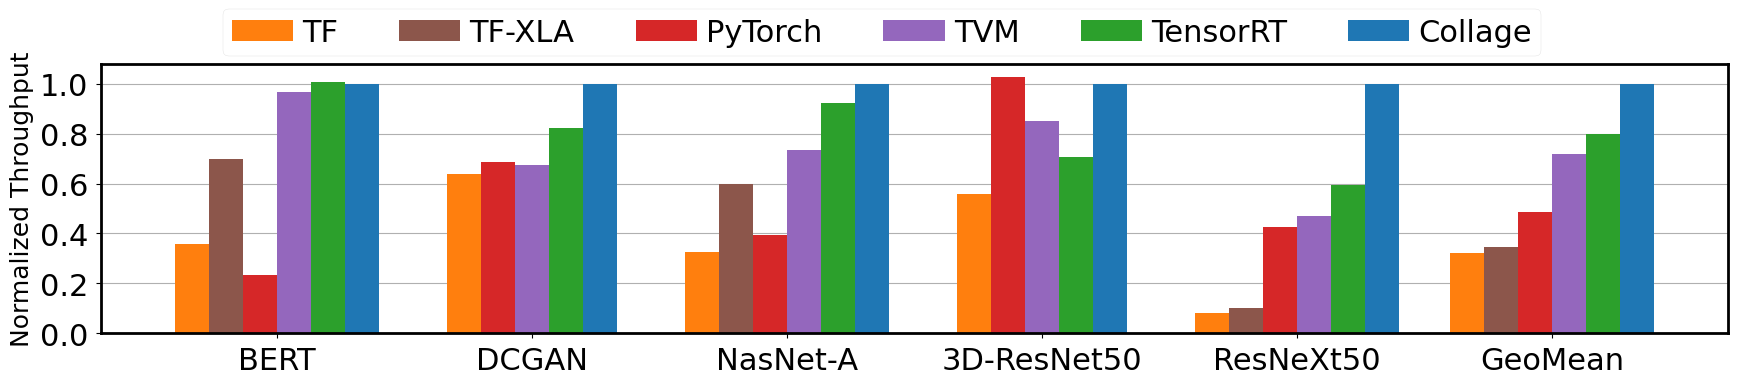
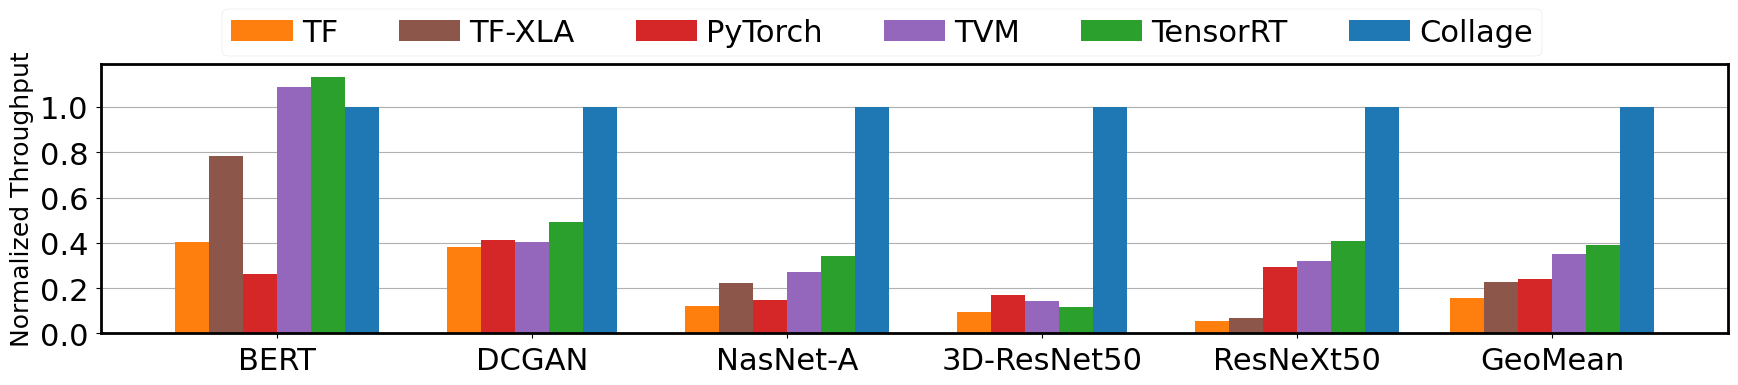
[Artifact eval] From two-level perf logging to plotting with newly measured numbers

diff --git a/demo/artifact_eval.py b/demo/artifact_eval.py
@@ -5,6 +5,10 @@ import tvm
 import logging
 from tvm.contrib import graph_executor as runtime
 
+# Remove warnings for clean output
+import warnings
+warnings.filterwarnings('ignore')
+
 # [NOTE]
 # * Available networks: bert_full, dcgan, nasneta, resnet50_3d, resnext50_32x4d, yolov3, mobilenet_v2
 # * Collage supports following backends by default:
@@ -16,11 +20,13 @@ from tvm.contrib import graph_executor as runtime
 
 # Define Collage workload
 workload = {
-    "optimizer": "op-level",
+#    "optimizer": "op-level",
+    "optimizer": "two-level",
     "backends": ["autotvm", "cudnn", "cublas", "tensorrt"],
     "network_name": "resnext50_32x4d",
     "target": "cuda",
     "batch_size": 1,
+    "ev-budget": 0.5,
 }
 
 # Default logging level. Skip messages during optimization
@@ -44,12 +50,6 @@ def measure_perf(lib, workload):
     perfs = np.array(ftimer().results) * 1000
     return np.mean(perfs), np.std(perfs)
 
-def run_with_tensorrt(workload):
-    from collage.backend.default_backends import cg_TensorRT
-    lib = cg_TensorRT(workload["mod"], workload["target"], workload["params"])
-    return measure_perf(lib, workload)
-
-
 def setup_workload(workload):
     network_name, batch_size, target = \
           workload["network_name"], workload["batch_size"], workload["target"]
@@ -62,32 +62,42 @@ def setup_workload(workload):
 
 def run_workload(workload, collage_mod):
     setup_workload(workload)
-    # Measure TensorRT performance as baseline
-    trt_mean_perf, trt_std_perf = run_with_tensorrt(workload)
 
-   # Invoke collage optimizer
+    # Invoke collage optimizer
     lib = collage_mod.optimize_backend_placement(**workload)
-    collage_mean_perf, collage_std_perf = measure_perf(lib, workload)
+
+    # For two-level optimizer, we have the measurement logged for the best placement during the optimization
+    if workload["optimizer"] == "two-level":
+        with open('plots/e2e_perf_two_level.log') as f:
+            lines = f.readlines()[-1] # Consider only last line correspoding to the most recent eval
+            lines = lines.split(",")
+            collage_mean_perf, collage_std_perf = float(lines[0]), float(lines[1]) # The last one is the most recently measured one
+    else:
+        collage_mean_perf, collage_std_perf = measure_perf(lib, workload)
 
     print(f"[ End-to-End Performance Evaluation ]")
-    print(f"# Performance of Collage is compared against TensorRT")
-    print(f"  speedup = (performance of TensorRT)/(performance of Collage)")
-    print(f"\n")
     print(f"# Network: {workload['network_name']}, Collage optimizer: {workload['optimizer']}")
-    print(f"  * End-to-end performance")
-    print(f"    - Run with TensorRT (mean, std) = ({trt_mean_perf:.4f}+-{trt_std_perf:.4f})")
-    print(f"    - Run with Collage  (mean, std) = ({collage_mean_perf:.4f}+-{collage_std_perf:.4f}), Speedup: {trt_mean_perf/collage_mean_perf:.4f}x")
+    print(f"  * Collage Performance (ms) (mean, std) = ({collage_mean_perf:.4f}+-{collage_std_perf:.4f})")
+
+def setup_two_level_log():
+    # Delete outdated log file for e2e perf of two-level optimizer
+    if workload["optimizer"] == "two-level":
+        import os
+        two_level_log_path = "plots/e2e_perf_two_level.log"
+        if os.path.exists(two_level_log_path):
+            os.remove(two_level_log_path)
 
 if __name__ == "__main__":
     # Operator cost will be logged at "operator_cost.log" by default.
     # If you want to start from scratch, delete previous log file for operator cost.
     # Since it is unreadable, users can dump human-readable form by passing 'dump_readable_cost_log = True'
     collage_mod = collage.Module(op_cost_log_path = "operator_cost.log", dump_readable_cost_log = False)
-    print(f"Default backends: {collage_mod.get_registered_backends()}\n")
+    print(f"Default Collage backends: {collage_mod.get_registered_backends()}\n")
 
     # Override the default tuning log
     # If you don't have tuning log, generate one by running 'autotune_tvm_ops.py'
     collage_mod.update_backend_tuning_log("autotvm", "autotvm_tuning_log_rtx2070.json")
+    setup_two_level_log()
 
     networks = ['bert_full', 'dcgan', 'nasneta', 'resnet50_3d', 'resnext50_32x4d']
     for nn in networks:

diff --git a/demo/plots/plot_e2e_perf.py b/demo/plots/plot_e2e_perf.py
@@ -5,6 +5,10 @@ from scipy import stats
 import argparse
 import numpy as np
 
+# Avoid display of figure
+import matplotlib
+matplotlib.use('Agg')
+
 NET_NAME_TO_OFFICIAL = {'bert_full': 'BERT', 'nasneta':"NasNet-A", 'resnet50': 'ResNet50',
                       'resnext50_32x4d':"ResNeXt50", 'resnet50_3d':"3D-ResNet50",
                       'mobilenet_v2':"Mobilenet V2", 'nasrnn':"NasRNN", 'dcgan':'DCGAN'}
@@ -50,7 +54,7 @@ def setup_df_with_baselines_and_method(df, methods):
     df = df.rename(index=NET_NAME_TO_OFFICIAL)
     # df = df.drop(['Mobilenet V2', 'ResNet50', 'NasRNN'])#, '3D-ResNet50', 'DCGAN', 'NasNet-A', 'ResNeXt50'])
 
-    print(df)
+    # print(df)
     return df
 
 def setup_df_with_baselines_and_method_diff_batch(df, methods):
@@ -69,7 +73,7 @@ def setup_df_with_baselines_and_method_diff_batch(df, methods):
     df = df.rename(index=BATCH_SIZE_TO_TEXT)
     # df = df.drop(['Mobilenet V2', 'ResNet50', 'NasRNN'])#, '3D-ResNet50', 'DCGAN', 'NasNet-A', 'ResNeXt50'])
 
-    print(df)
+    # print(df)
     return df
 
 def setup_df_for_normalized_perf_plot_diff_batch(df):
@@ -133,7 +137,7 @@ def draw_plot_without_nan_values(df, is_diff_batch=False):
         df = df.sort_values(by='BatchSize=1')
     else:
         df = df.sort_values(by='GeoMean')
-    print(df)
+    #print(df)
 
     shifted = df.notnull().cumsum()
     # width of each bar
@@ -181,6 +185,15 @@ def draw_e2e_perf_plot_normalized(df, args, is_diff_batch=False):
     plt.legend(ncol=args.n_method, loc='upper center', bbox_to_anchor=(0.48, box_y_pos), handletextpad=0.3, borderpad=0.3, labelspacing=0.15)
     plt.savefig(f"{EXP_RESULT_PATH}/e2e_perf_norm_{args.hw}_{args.batch_size}.png", bbox_inches='tight')
 
+def update_rtx2070_number(df):
+    indices = ['bert_full', 'dcgan', 'nasneta', 'resnet50_3d', 'resnext50_32x4d']
+    with open(f'{EXP_RESULT_PATH}/temp/e2e_perf_two_level.log') as f:
+        for idx, line in enumerate(f.readlines()):
+            mean_perf = float(line.split(",")[0])
+            # print(df['Two-level'][idx], mean_perf)
+            df.at[indices[idx], 'Two-level'] = mean_perf
+    return df
+
 if __name__ == "__main__":
     set_plt_font_size()
     parser = argparse.ArgumentParser()
@@ -191,7 +204,7 @@ if __name__ == "__main__":
     if args.hw!='diff_batch_v100':
         plt.rc('axes', labelsize=18)
 
-    print(args)
+    #print(args)
     if args.hw in NVIDIA_GPUS or args.hw in INTEL_CPUS:
         df = pd.read_csv(E2E_PERF_LOG_PATH, header=None)
         df.columns = E2E_PERF_COLS
@@ -211,9 +224,16 @@ if __name__ == "__main__":
 
         args.n_method = len(methods)
 
+        # Update numbers for RTX2070 with newly measured number
+        update_rtx2070_number(df)
+
         df = setup_df_with_baselines_and_method(df, methods)
         df = setup_df_for_normalized_perf_plot(df)
         draw_e2e_perf_plot_normalized(df, args)
+
+        final_path = f"{EXP_RESULT_PATH}/e2e_perf_norm_{args.hw}_{args.batch_size}.png"
+        print(f"The plot (e2e perf) is saved to \'{final_path}\'")
+
     elif args.hw == 'diff_batch_v100':
         df = pd.read_csv(E2E_PERF_LOG_PATH, header=None)
         df.columns = E2E_PERF_COLS

diff --git a/python/collage/optimizer/evolutionary_searcher.py b/python/collage/optimizer/evolutionary_searcher.py
@@ -47,6 +47,10 @@ class EvolutionarySearcher:
         # Debug usage to limit # of measurements
         self.n_test = 0
 
+        # Log std of measurements
+        self.best_std_perf = 0
+        self.best_mean_perf = 99999
+
         # duplicate checker
         # self._memo_state = {}
 
@@ -199,7 +203,11 @@ class EvolutionarySearcher:
             #                                                       self.target_str,
             #                                                       self.net_name, self.hw_name, self.batch_size)
             mean_perf, std_perf = self.measure_subprocess()
+            if mean_perf < self.best_mean_perf:
+                self.best_mean_perf, self.best_std_perf = mean_perf, std_perf
+
         # self._memo_state[individual_hash] = -mean_perf
+
 
         # Deallocate opt_match
         del opt_match
@@ -221,12 +229,8 @@ class EvolutionarySearcher:
         self.op_match_logger.save(self.expr, best_opt_match, log_path=CollageContext.graph_level_placement_log)
 
 
-        # This is inference time in ms
+        # best_perf is inference time in ms
         best_perf = -self.get_ind_perf_from_pair(best_ind)
-        #with open(best_perf_log_path, "w") as best_output:
-        #    best_output.write(f"Best perf: {best_perf}\n")
-        #    best_output.write(f"Best match: {best_ind[0]}\n")
-        #     best_output.write(f"-> 0 means optimal from first pass and 1 means TensorRT")
 
         return best_ind, best_opt_match, best_perf
 
@@ -402,6 +406,11 @@ class EvolutionarySearcher:
             if total_search_time > n_hours * 3600:
                 logging.info(f"It exceeds search time limit ({n_hours} hrs), so it stops.")
                 break
+
+        # We save the best performance from graph-level placement optimizer to the file
+        best_perf = -self.get_ind_perf_from_pair(best_ind)
+        with open('plots/e2e_perf_two_level.log', "a") as best_output:
+            best_output.write(f"{best_perf},{self.best_std_perf}\n")
 
         logging.info("-- End of (successful) evolution --")
 

diff --git a/python/collage/optimizer/_optimizer.py b/python/collage/optimizer/_optimizer.py
@@ -158,7 +158,7 @@ def run_op_level_opt(func_expr):
     backend_registry = pattern_registry.backend_registry
     given_backends = get_backends(func_expr, backend_registry)
     relay_expr = get_function_body(func_expr)
-    
+
     logging.info(f"[Op-Level: DP] Computation graph generation...")
     comp_graph = ComputationGraph(relay_expr)
     n_relay_nodes = comp_graph.n_relay_nodes
@@ -214,12 +214,12 @@ def run_two_level_opt(relay_expr):
     """
 
     # It is a function if you get it from last pass of Relay build
-    print("[Python side] Run two-level optimization")
+    logging.info("[Python side] Run two-level optimization")
 
     # op-level optimization: DP with all backends but external compilers, e.g., TensorRT
     func_expr = relay_expr
     optimized_match, relay_expr, pattern_registry, n_relay_nodes = run_op_level_opt(relay_expr)
-    print("[Python side] Op-level optimization is done")
+    logging.info("[Python side] Op-level optimization is done")
 
     net_name, batch_size = func_expr.attrs["Network"], int(func_expr.attrs["BatchSize"])
     build_target = func_expr.attrs["BuildTarget"]
@@ -242,12 +242,12 @@ def run_two_level_opt(relay_expr):
 
     # Run evolutionary search
     n_ops_after_first_level = len(group_id_to_exprs_anno.keys())
-    print(f"# of matched operators from first level : {n_ops_after_first_level}")
+    logging.info(f"# of matched operators from first level : {n_ops_after_first_level}")
 
     # Unnecessary ops include external compiler ops chosen from first level or
     # Ops that shouldn't be assigned to external compiler such as Tuple or TupleGetItem
     n_ops = len(op_state_to_match_translator.state_id_to_group_id)
-    print(f"# of matched operators from first level after excluding unnecessary ops: {n_ops}")
+    logging.info(f"# of matched operators from first level after excluding unnecessary ops: {n_ops}")
 
     # On the second level, Consider only ops that are not assigned to TensorRT
     # Extract ops that are not assigned to TensorRT
